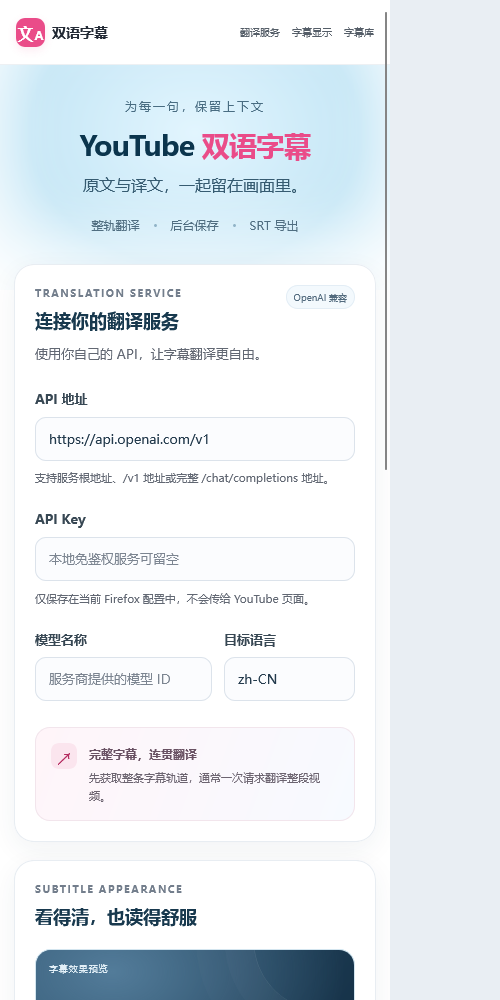
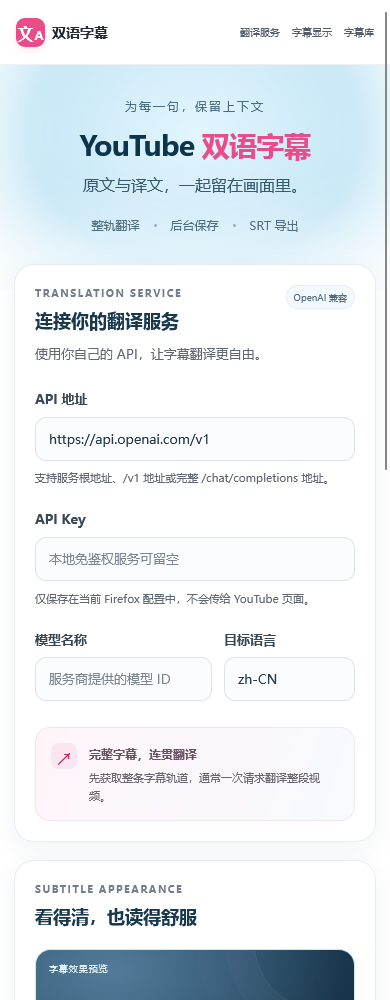
docs: record narrow viewport and checked-switch validation

diff --git a/docs/options-style-0.2.1.md b/docs/options-style-0.2.1.md
@@ -10,13 +10,13 @@
 
 - `npm test`：55/55 通过。
 - `npm run package`：构建成功，Mozilla 校验 0 errors、0 notices、0 warnings。
-- 隔离 Firefox 157.0.1 中加载生产包，配置页 23 项检查通过，包括保存后刷新、预览联动与恢复、mock API 成功/失败反馈、真实后台任务显示/取消/清除、导出内容选择保持与实际原生 SRT 下载、键盘焦点、无未捕获脚本错误。
-- 1280px 原生窗口、390px 同源 iframe 的扩展页面均无横向溢出。Firefox headless 窗口最小宽度为 500px，因此用 iframe 获得真实 390 CSS px 的页面视口与 ResizeObserver 事件，未将 500px 窗口当作 390px 结果。
+- 隔离 Firefox 157.0.1 中加载生产包，配置页主检查 23 项、补充检查 8 项，共 31 项通过。包括保存后刷新、预览联动与恢复、mock API 成功/失败反馈、真实后台任务显示/取消/清除、导出内容选择保持与实际原生 SRT 下载、键盘焦点、无未捕获脚本错误。自动启用开关在勾选状态下也保留 3px 键盘焦点框。
+- 1280px 原生窗口、390/320/280px 同源 iframe 的扩展页面均无横向溢出。Firefox headless 窗口最小宽度为 500px，因此用 iframe 获得真实窄屏 CSS px 页面视口与 ResizeObserver 事件，未将 500px 窗口当作窄屏结果。
 - 测试仅使用本地 mock API。SRT 检查为避免 headless 的系统保存对话框，只在隔离测试页给下载消息增加 `saveAs: false`；后台、Blob 与 Firefox downloads API 均真实执行。
 - 已核对交付 ZIP 与原生 Firefox 测试 ZIP 的每个文件一致。个人 API Key 与用户主 Firefox 配置不参与本次验证。
 
-可随 GitHub 查看[检查报告](validation-evidence/0.2.1/options-report.json)、[桌面配置页](validation-evidence/0.2.1/options-desktop.png)、[390px 配置页](validation-evidence/0.2.1/options-narrow.png)与[字幕任务库](validation-evidence/0.2.1/options-library.png)。
+可随 GitHub 查看[主检查报告](validation-evidence/0.2.1/options-report.json)、[补充检查报告](validation-evidence/0.2.1/options-supplemental-report.json)、[桌面配置页](validation-evidence/0.2.1/options-desktop.png)、[390px 配置页](validation-evidence/0.2.1/options-narrow.png)与[字幕任务库](validation-evidence/0.2.1/options-library.png)。
 
-本地安装包：`E:\plugin\immersive-translate-local\dist\youtube-bilingual-firefox-0.2.1.zip`。在 Firefox 的 `about:debugging#/runtime/this-firefox` 重新加载即可；现有临时扩展可使用「重新载入」加载 `build/firefox` 的当前版本。
+本地安装包：`E:\plugin\immersive-translate-local\dist\youtube-bilingual-firefox-0.2.1.zip`。在 Firefox 的 `about:debugging#/runtime/this-firefox` 重新临时加载这个 ZIP；若原先从 `build/firefox/manifest.json` 载入，可以直接点击「重新载入」。
 
 本次为配置页改版，真实 YouTube 字幕接口的验证边界沿用 [0.2.0 记录](validation-0.2.md)。
